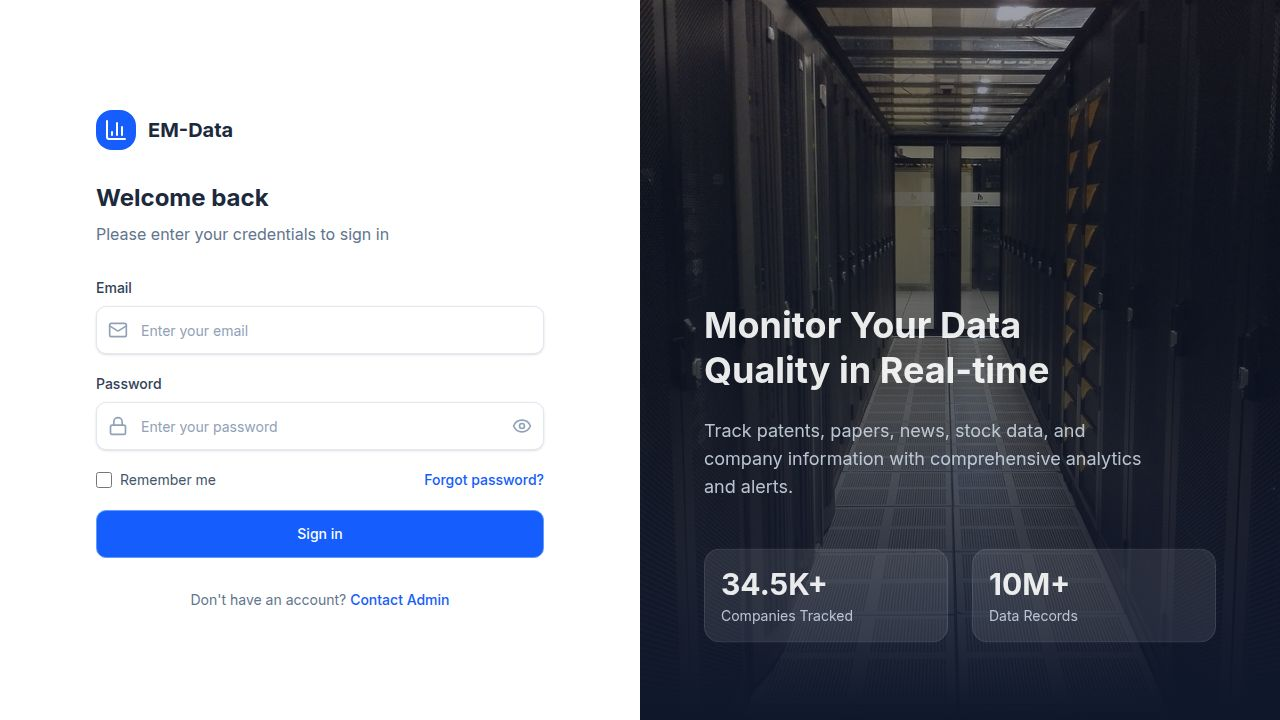
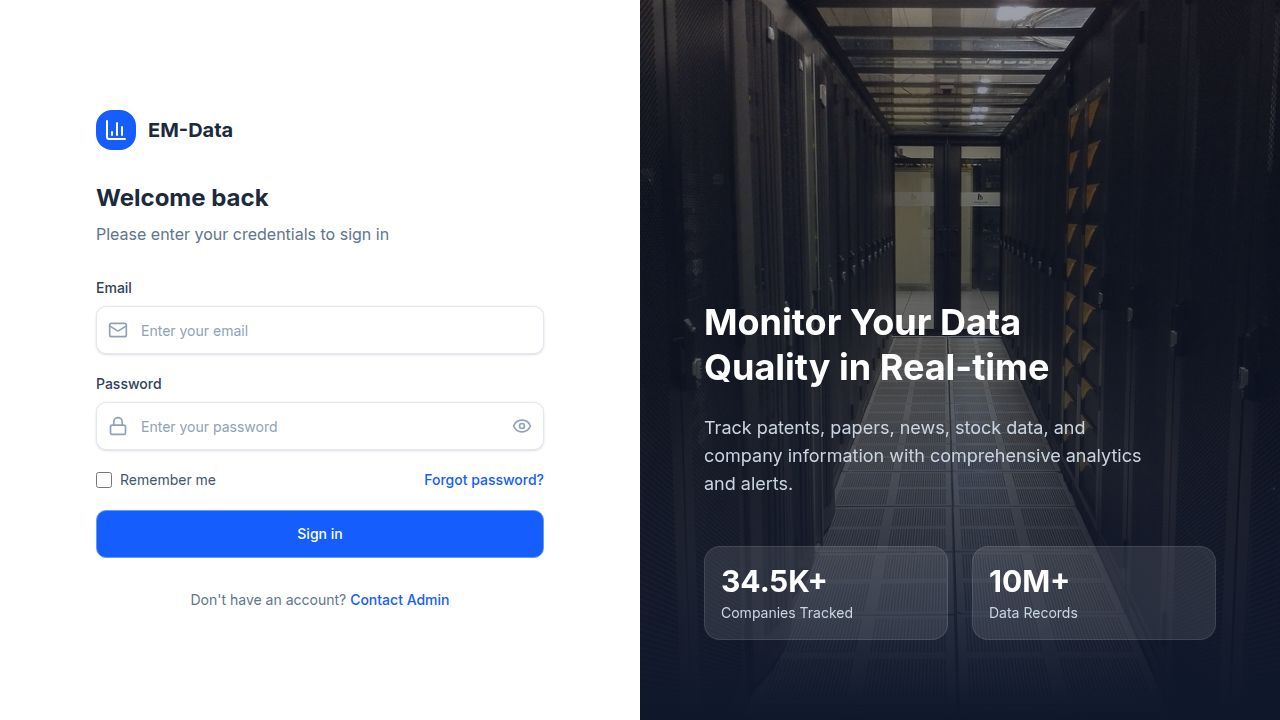
Always show repeating task sub-items and add select all for days
Remove repeating task toggle and ensure sub-items are always visible. Add a "Select All" button to the repeat days setting for convenient toggling of all days.

Replit-Commit-Author: Agent
Replit-Commit-Session-Id: d2bd115d-fa95-4ba1-9fe1-994fda3d6723
Replit-Commit-Checkpoint-Type: full_checkpoint
Replit-Commit-Event-Id: 4600695e-e25b-4ae8-9572-78d6e3044607
Replit-Commit-Screenshot-Url: https://storage.googleapis.com/screenshot-production-us-central1/8e96d2a4-76c1-459b-b578-cf86d63140d3/d2bd115d-fa95-4ba1-9fe1-994fda3d6723/y4Qa1Gg
Replit-Helium-Checkpoint-Created: true

diff --git a/client/src/pages/AddTestProcedure.tsx b/client/src/pages/AddTestProcedure.tsx
@@ -808,31 +808,27 @@ export default function AddTestProcedure() {
                     </div>
                   </div>
 
-                  <div className="flex items-center gap-3 mb-4">
-                    <button
-                      onClick={() => setIsRepeating(!isRepeating)}
-                      className={`relative w-11 h-6 rounded-full transition-colors ${
-                        isRepeating ? "bg-blue-600" : "bg-slate-200"
-                      }`}
-                      data-testid="toggle-repeat"
-                    >
-                      <span className={`absolute top-1 left-1 w-4 h-4 rounded-full bg-white transition-transform ${
-                        isRepeating ? "translate-x-5" : ""
-                      }`} />
-                    </button>
-                    <span className="text-sm font-medium text-slate-700">Repeating Task</span>
-                  </div>
-
-                  {isRepeating && (
-                    <motion.div
-                      initial={{ opacity: 0, height: 0 }}
-                      animate={{ opacity: 1, height: "auto" }}
-                      className="space-y-4"
-                    >
-                      <div>
-                        <label className="block text-xs font-medium text-slate-500 mb-2">Repeat on Days</label>
-                        <div className="flex gap-2 mb-3">
-                          {weekDays.map((day) => (
+                  <div className="space-y-4">
+                    <div>
+                      <label className="block text-xs font-medium text-slate-500 mb-2">Repeat on Days</label>
+                      <div className="flex gap-2 mb-3">
+                        <button
+                          onClick={() => {
+                            if (selectedDays.length === weekDays.length) {
+                              setSelectedDays([]);
+                            } else {
+                              setSelectedDays(weekDays.map(d => d.id));
+                            }
+                          }}
+                          className={`w-12 h-10 rounded-lg text-xs font-medium transition-all ${
+                            selectedDays.length === weekDays.length
+                              ? "bg-slate-700 text-white border border-slate-700"
+                              : "bg-white border border-slate-200 text-slate-600 hover:border-blue-300"
+                          }`}
+                        >
+                          전체
+                        </button>
+                        {weekDays.map((day) => (
                             <button
                               key={day.id}
                               onClick={() => toggleDay(day.id)}
@@ -995,8 +991,7 @@ export default function AddTestProcedure() {
                           </div>
                         )}
                       </div>
-                    </motion.div>
-                  )}
+                  </div>
                 </div>
               </div>
 